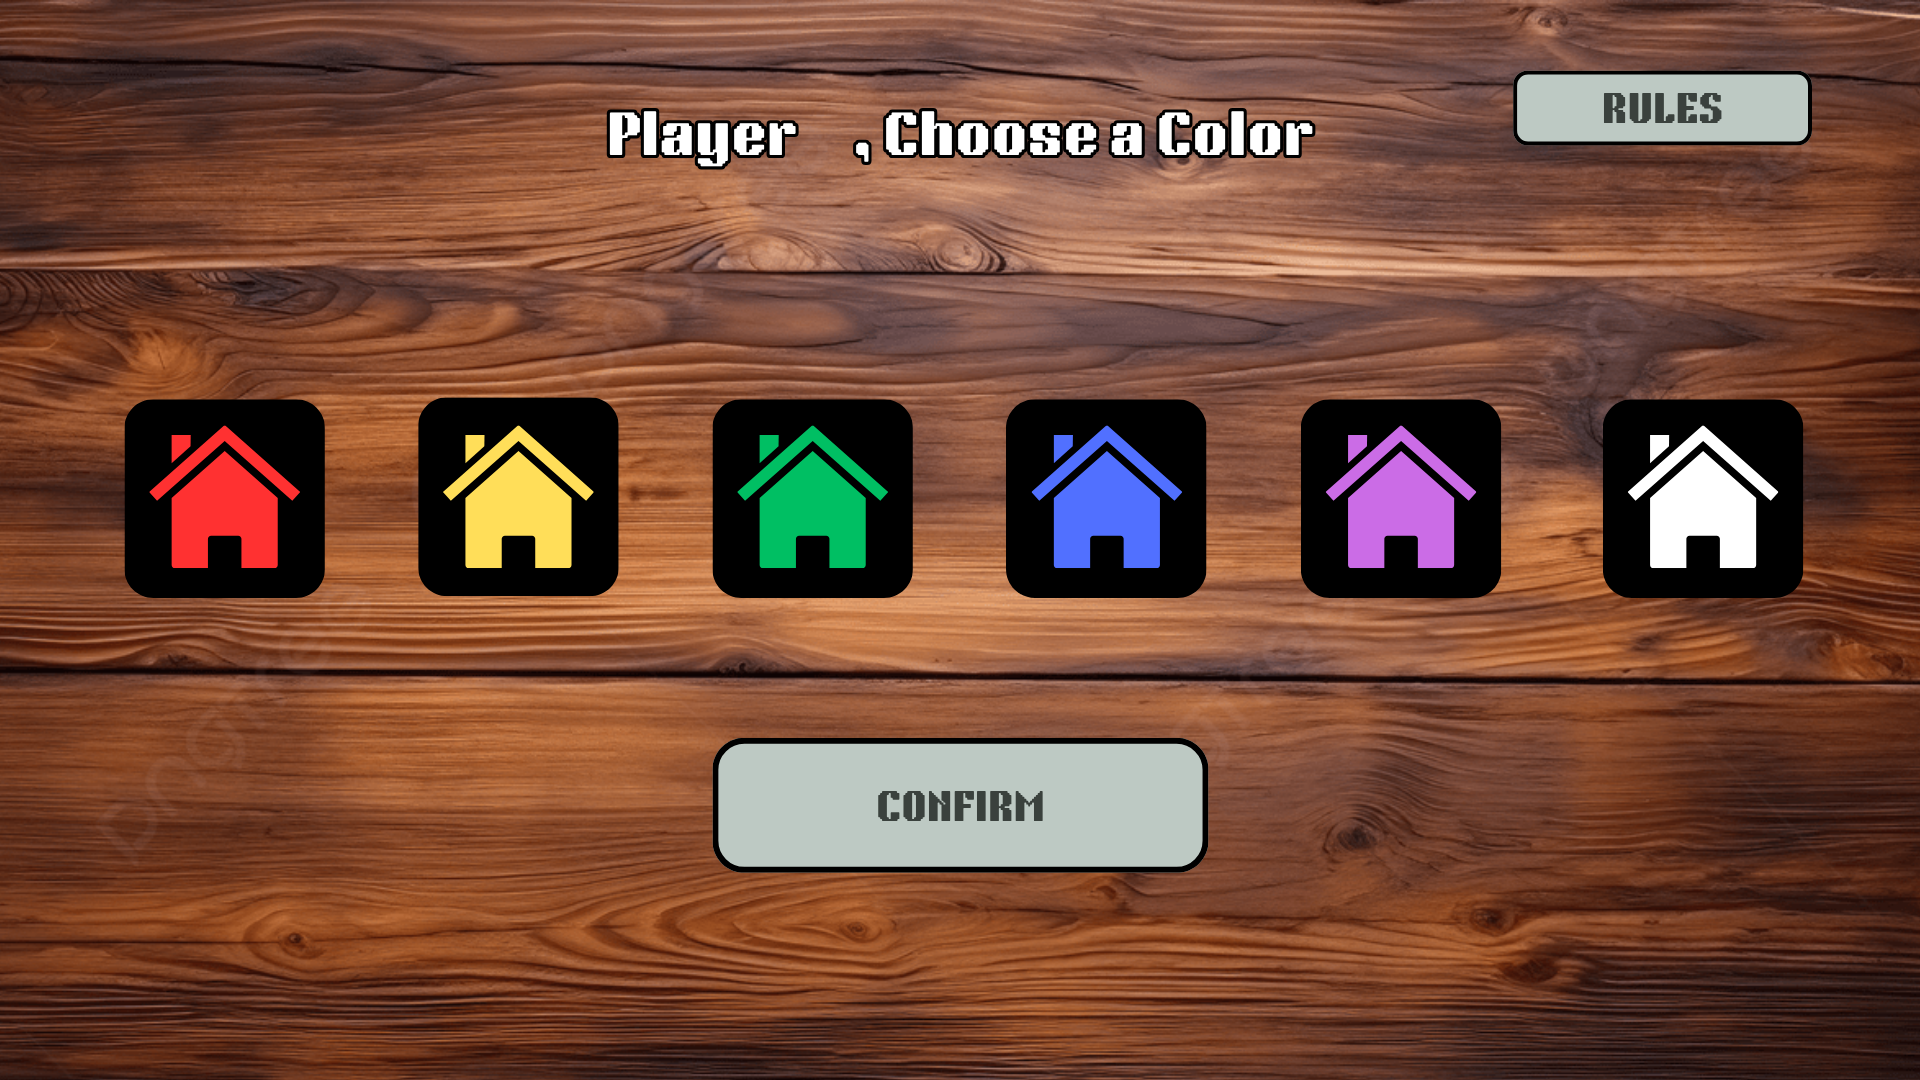
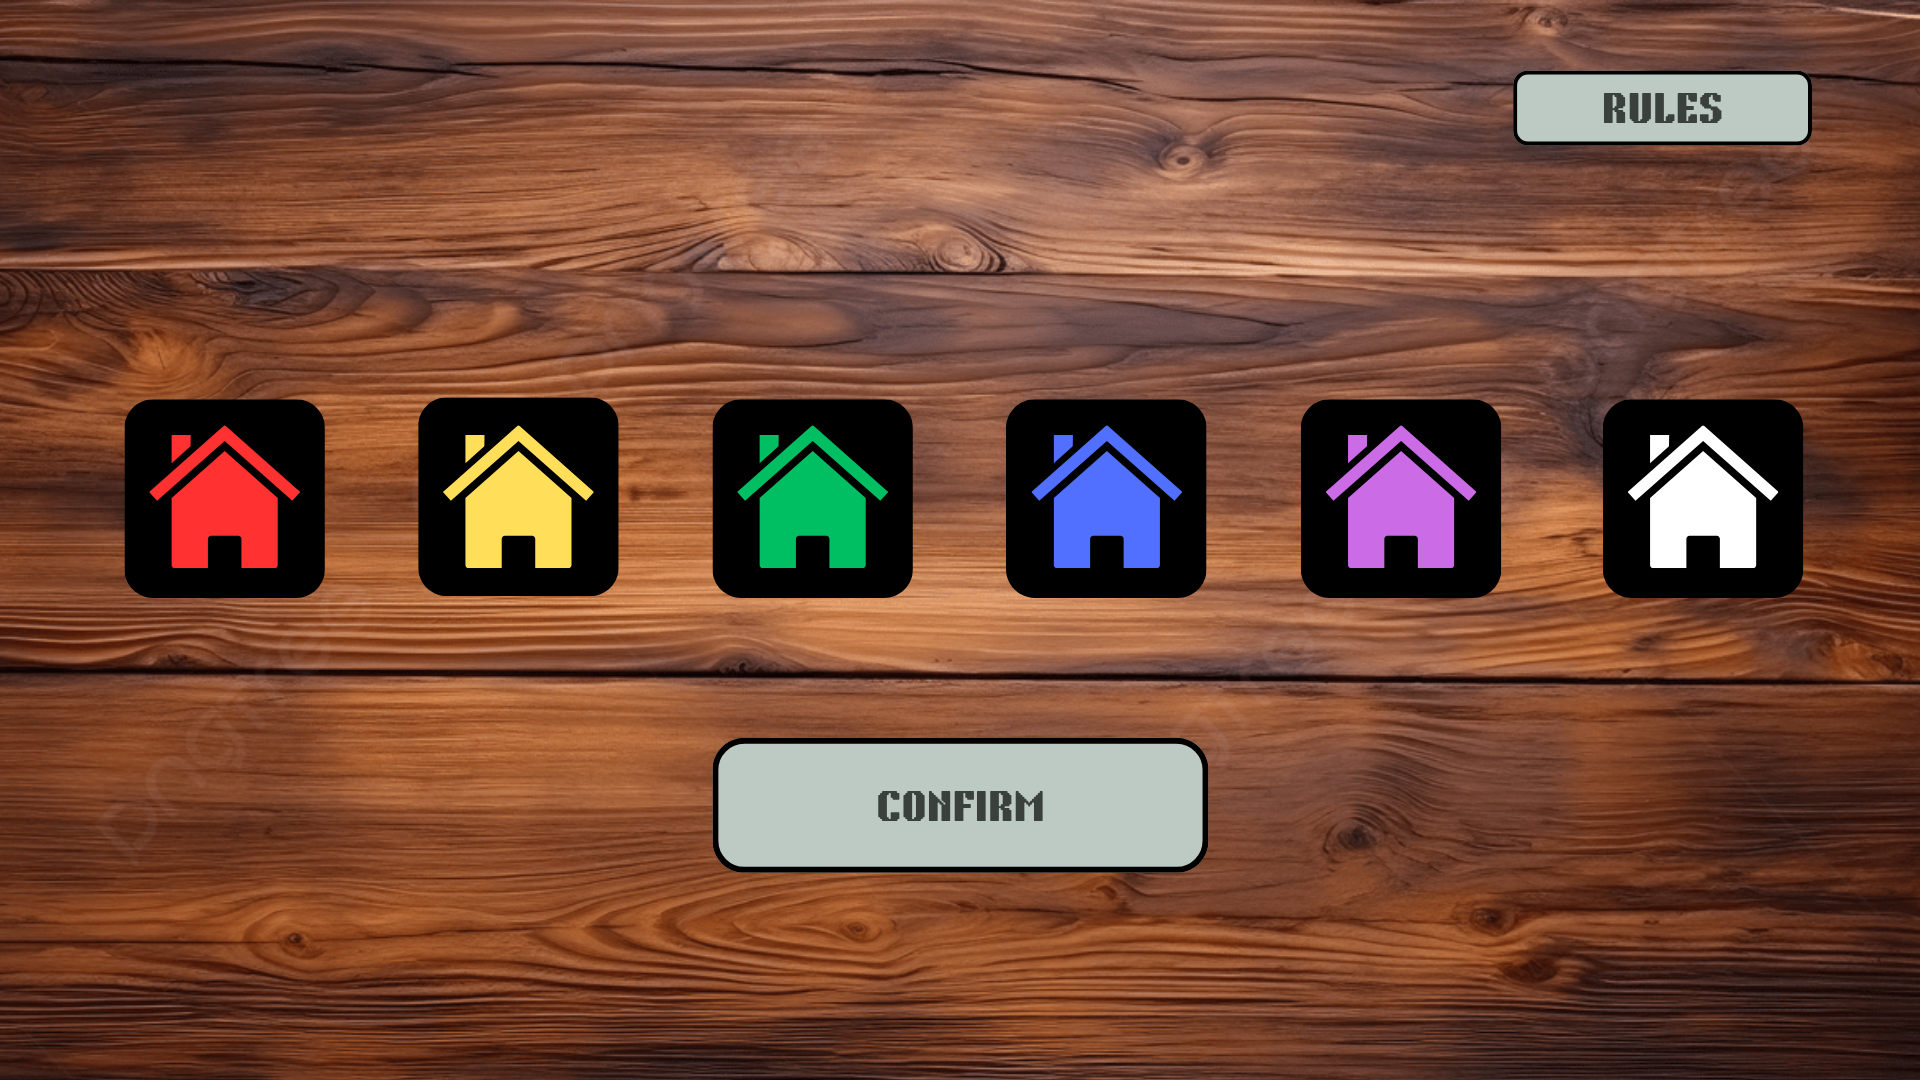
My versoin

Changed region(s): [[0.3125, 0.0917, 0.6875, 0.1528]]

diff --git a/src/InitialPanel.java b/src/InitialPanel.java
@@ -74,7 +74,7 @@ private void loadCityCoordinates() {
 	};	
 	private BufferedImage titleScreen, gameBackground, redHouse, yellowHouse, greenHouse, blueHouse, purpleHouse, whiteHouse, bigBoard, board,
 	auctionImagePlayerOne, auctionImagePlayerTwo, auctionImagePlayerThree, auctionImagePlayerFour, arrow, rules1, rules2, rules3, rules4, rules5, 
-	rules6, rules7, rules8, rules9, rules10, rules11, rules12, rulesBG, menuscreen, menutile, colorselection;
+	rules6, rules7, rules8, rules9, rules10, rules11, rules12, rulesBG, menuscreen, menutile, colorselection, rulesbutton;
 	private BufferedImage pp3, pp4, pp5, pp6, pp7, pp8, pp9, pp10, pp11, pp12, pp13, pp14, pp15, pp16, pp17, pp18,
 	pp19, pp20, pp21, pp22, pp23, pp24, pp25, pp26, pp27, pp28, pp29, pp30, pp31, pp32, pp33, pp34, pp35, pp36, pp37, pp38, pp39, pp40,
 	pp42, pp44, pp46, pp50;
@@ -95,6 +95,7 @@ private void loadCityCoordinates() {
 			rules10 = ImageIO.read(new File("resources/Rules10.png"));
 			rules11 = ImageIO.read(new File("resources/Rules11.png"));
 			rules12 = ImageIO.read(new File("resources/Rules12.png"));
+			rulesbutton = ImageIO.read(new File("resources/rulesbutton.png"));
 			bigBoard = ImageIO.read(new File("resources/Board.png"));
 			board = ImageIO.read(new File("resources/Cropped Board.png"));
             titleScreen = ImageIO.read(new File("Powergrid.png"));
@@ -188,7 +189,6 @@ private void loadCityCoordinates() {
 
 			case "Instructions":
 				g.drawImage(rulesBG, 0, 0, 1920, 1080, this);
-				g.drawImage(menutile, 1604, 59, 218, 75, this);
 				switch(rulecounter) {
 					case 0: g.drawImage(rules1, 600, 0, 700, 1000, this); break;
 					case 1: g.drawImage(rules2, 600, 0, 700, 1000, this); break;
@@ -208,14 +208,16 @@ private void loadCityCoordinates() {
 			
 			case "Color Selection":
 				g.drawImage(colorselection, 0, 0, 1920, 1080, this);
+				
 
-				int startX = 124;
-				int startY = 399;
+				int startX = 129;
+				int startY = 402;
 				int boxW = 193;
 				int boxH = 192;
-				int step = 196; // real spacing from your data
 
-				Color overlay = new Color(0, 0, 0, 127);
+				int step = 296; // real spacing from your data
+
+				Color overlay = new Color(0, 0, 0, 100);
 				g.setColor(overlay);
 
 				for (int i = 0; i < 6; i++) {
@@ -224,7 +226,7 @@ private void loadCityCoordinates() {
 
 						int x = startX + (i * step);
 
-						g.fillRect(x, startY, boxW, boxH);
+						g.fillRoundRect(x, startY, boxW, boxH, 30, 30);
 					}
 				}
 
@@ -237,9 +239,9 @@ private void loadCityCoordinates() {
 
 			case "Zone Selection":
 				// zone selection
-				g.drawImage(gameBackground, 0, 0, 2048, 1152, this);
+				g.drawImage(gameBackground, 0, 0, 1920, 1080, this);
 				g.drawImage(bigBoard, getWidth()/4, 0, getWidth()/2, getHeight(), null);
-		
+				g.drawImage(rulesbutton, 1514, 71, 295, 68, null);
 				//continue button
 				//height: 950
 				Font font = new Font("Arial", Font.BOLD, 30);
@@ -301,9 +303,10 @@ private void loadCityCoordinates() {
 				}
 				break;
 			case "Auction":
-				g.drawImage(gameBackground, 0, 0, 2048, 1152, this);
-				    g.drawImage(getPowerPlantImage(GameState.auctionedPowerPlant.getPrice()), 824, 200, 200, 200, this);
-					switch(GameState.playerOrder[GameState.currentPlayerIndex]) {
+				g.drawImage(gameBackground, 0, 0, 1920, 1080, this);
+				g.drawImage(getPowerPlantImage(GameState.auctionedPowerPlant.getPrice()), 824, 200, 200, 200, this);
+				g.drawImage(menutile, 1514, 71, 295, 100, null);
+				switch(GameState.playerOrder[GameState.currentPlayerIndex]) {
 					case 1: g.drawImage(arrow, 220, 500, 250, 200, this); break;
 					case 2: g.drawImage(arrow, 620, 500, 250, 200, this); break;
 					case 3: g.drawImage(arrow, 1020, 500, 250, 200, this); break;
@@ -422,7 +425,7 @@ private void loadCityCoordinates() {
 					
 					*/
 					System.out.println("works");
-				g.drawImage(gameBackground, 0, 0, 2048, 1152, this);
+				g.drawImage(gameBackground, 0, 0, 1920, 1080, this);
 				Font sizedFont;
 				sizedFont = Main.customFont.deriveFont(Font.PLAIN, 50f);
 				g.setFont(sizedFont);
@@ -456,7 +459,7 @@ private void loadCityCoordinates() {
 				}
 				break;
 			case "Buy Resources":
-				g.drawImage(gameBackground, 0, 0, 2048, 1152, this);
+				g.drawImage(gameBackground, 0, 0, 1920, 1080, this);
 				Font customFontLarge = Main.customFont.deriveFont(Font.BOLD, 40f);
 				Font customFontMed = Main.customFont.deriveFont(Font.BOLD, 30f);
 				Font customFontSmall = Main.customFont.deriveFont(Font.BOLD, 20f);
@@ -637,7 +640,7 @@ private void loadCityCoordinates() {
 				centerString(g, "Done", getWidth()/2 - (getWidth()/10), (int)(getHeight() * 0.9), getWidth()/5, (int)(getHeight() * 0.08));
 				break;
 			case "Buy Cities":
-				g.drawImage(gameBackground, 0, 0, 2048, 1152, this);
+				g.drawImage(gameBackground, 0, 0, 1920, 1080, this);
 				g.drawImage(bigBoard, getWidth()/4, 0, getWidth()/2, getHeight(), null);
 				// Draw the board and city houses - UI will be implemented with board drawing
 				// Draw continue button
@@ -677,7 +680,7 @@ private void loadCityCoordinates() {
 				}
 				break;
 			case "Confirm City Purchase":
-				g.drawImage(gameBackground, 0, 0, 2048, 1152, this);
+				g.drawImage(gameBackground, 0, 0, 1920, 1080, this);
 				Font confirmFont = new Font("Arial", Font.BOLD, 40);
 				g.setFont(confirmFont);
 				g.setColor(Color.BLACK);
@@ -705,7 +708,7 @@ private void loadCityCoordinates() {
 				centerString(g, "No", (int)(getWidth() * 0.6), (int)(getHeight() * 0.55), (int)(getWidth() * 0.15), (int)(getHeight() * 0.08));
 				break;
 			case "Bureaucracy":
-				g.drawImage(gameBackground, 0, 0, 2048, 1152, this);
+				g.drawImage(gameBackground, 0, 0, 1920, 1080, this);
 				Font bureaucracyFont = new Font("Arial", Font.BOLD, 50);
 				g.setFont(bureaucracyFont);
 				g.setColor(Color.BLACK);
@@ -725,7 +728,7 @@ private void loadCityCoordinates() {
 				centerString(g, "Continue", getWidth()/2 - (getWidth()/10), (int)(getHeight() * 0.75), getWidth()/5, (int)(getHeight() * 0.08));
 				break;
 			case "Activate Powerplants":
-				g.drawImage(gameBackground, 0, 0, 2048, 1152, this);
+				g.drawImage(gameBackground, 0, 0, 1920, 1080, this);
 				Font ppFont = new Font("Arial", Font.BOLD, 35);
 				g.setFont(ppFont);
 				g.setColor(Color.BLACK);
@@ -745,7 +748,7 @@ private void loadCityCoordinates() {
 				centerString(g, "Done", getWidth()/2 - (getWidth()/10), (int)(getHeight() * 0.9), getWidth()/5, (int)(getHeight() * 0.08));
 				break;
 			case "Hybrid Powerplant":
-				g.drawImage(gameBackground, 0, 0, 2048, 1152, this);
+				g.drawImage(gameBackground, 0, 0, 1920, 1080, this);
 				Font hybridFont = new Font("Arial", Font.BOLD, 40);
 				g.setFont(hybridFont);
 				g.setColor(Color.BLACK);
@@ -908,7 +911,6 @@ private void loadCityCoordinates() {
 				}
 				// Check if Rules button was clicked
 				else if (x >= 1200 && x <= 1700 && y >= 830 && y <= 914) {
-					GameState.currentEvent.removeLast();
 					GameState.currentEvent.add("Instructions");
 					repaint();
 				}
@@ -938,25 +940,19 @@ private void loadCityCoordinates() {
 				// return button in iunctructions page
 				if (x >= 80 && x <= 325 && y >= 30 && y <= 87) {
 					GameState.currentEvent.removeLast();
-					GameState.currentEvent.add("Title Screen");
 					repaint();
-				}
-				if(x >= 1604 && x <= 1822 && y >= 75 && y <= 135) {
-					GameState.previousStates.push(GameState.currentEvent.getLast());
-					GameState.currentEvent.removeLast();
-					GameState.currentEvent.add("Menu Screen");
 				}
 				repaint();
 				break;
 
 			case "Color Selection":
-					int startX = 124;
-					int startY = 399;
+					int startX = 129;
+					int startY = 402;
 
 					int boxW = 193;
 					int boxH = 192;
 
-					int step = 196; // real spacing from your data
+					int step = 296; // real spacing from your data
 
 					if (y >= startY && y <= startY + boxH) {
 
@@ -1000,6 +996,10 @@ private void loadCityCoordinates() {
 					}
 
 				
+				if (x >= 1518 && x <= 1808 && y >= 73 && y <= 140) {
+					GameState.currentEvent.add("Instructions");
+				}
+				
 				if(GameState.currentPlayerIndex == 4) {
 					GameState.currentEvent.removeLast();
 					System.out.println("Player One Color: " + GameState.players[0].getColor());
@@ -1012,6 +1012,12 @@ private void loadCityCoordinates() {
 				repaint();
 				break;
 			case "Zone Selection":
+				
+				if (x >= 1518 && x <= 1808 && y >= 73 && y <= 140) {
+					GameState.currentEvent.add("Instructions");
+				}
+
+
 				if(x>=180 && x <= 255 && y >= 150 && y <= 225 && !GameState.isZoneSelected[0]) {
 					GameState.isZoneSelected[0] = true;
 					GameState.currentPlayerIndex++;